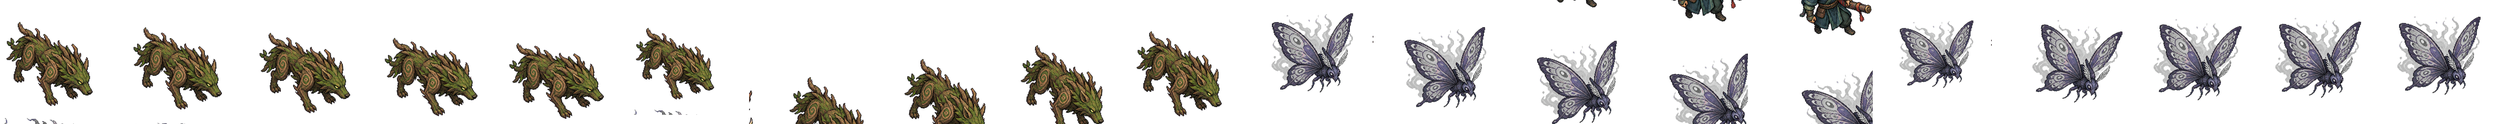
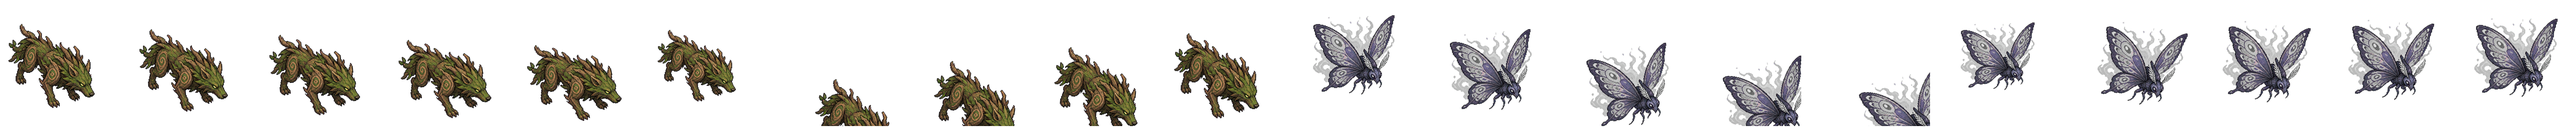
fix: prevent common actor frame bleed

Changed region(s): [[0.3125, 0.0, 1.0, 1.0], [0.0, 0.2188, 0.2812, 0.9375], [0.0, 0.9688, 0.0312, 1.0]]

diff --git a/src/game/phaser/commonActorAtlas.test.ts b/src/game/phaser/commonActorAtlas.test.ts
@@ -1,0 +1,197 @@
+/// <reference types="node" />
+
+import { readFileSync } from 'node:fs'
+import { fileURLToPath } from 'node:url'
+import { inflateSync } from 'node:zlib'
+import { describe, expect, it } from 'vitest'
+
+const FRAME_SIZE = 264
+const GUTTER_SIZE = 4
+const SECONDARY_COMPONENT_AREA_LIMIT = 96
+
+interface DecodedPng {
+  readonly width: number
+  readonly height: number
+  readonly alpha: Uint8Array
+}
+
+function readUInt32BE(input: Uint8Array, offset: number): number {
+  return (
+    ((input[offset] ?? 0) << 24)
+    | ((input[offset + 1] ?? 0) << 16)
+    | ((input[offset + 2] ?? 0) << 8)
+    | (input[offset + 3] ?? 0)
+  ) >>> 0
+}
+
+function readAscii(input: Uint8Array, start: number, end: number): string {
+  return String.fromCharCode(...input.subarray(start, end))
+}
+
+function concatBytes(chunks: readonly Uint8Array[]): Uint8Array {
+  const result = new Uint8Array(chunks.reduce((total, chunk) => total + chunk.length, 0))
+  let offset = 0
+  for (const chunk of chunks) {
+    result.set(chunk, offset)
+    offset += chunk.length
+  }
+  return result
+}
+
+function decodePngAlpha(filePath: string): DecodedPng {
+  const input = new Uint8Array(readFileSync(filePath))
+  const idatChunks: Uint8Array[] = []
+  let width = 0
+  let height = 0
+  let bitDepth = 0
+  let colorType = 0
+  let offset = 8
+
+  while (offset < input.length) {
+    const length = readUInt32BE(input, offset)
+    const type = readAscii(input, offset + 4, offset + 8)
+    const body = input.subarray(offset + 8, offset + 8 + length)
+    offset += length + 12
+
+    if (type === 'IHDR') {
+      width = readUInt32BE(body, 0)
+      height = readUInt32BE(body, 4)
+      bitDepth = body[8] ?? 0
+      colorType = body[9] ?? 0
+    } else if (type === 'IDAT') {
+      idatChunks.push(body)
+    }
+  }
+
+  if (bitDepth !== 8 || colorType !== 6) {
+    throw new Error(`只支持 8 位 RGBA PNG：${filePath}`)
+  }
+
+  const inflated = new Uint8Array(inflateSync(concatBytes(idatChunks)))
+
+  const bytesPerPixel = 4
+  const rowBytes = width * bytesPerPixel
+  const pixels = new Uint8Array(width * height * bytesPerPixel)
+  const alpha = new Uint8Array(width * height)
+  let sourceOffset = 0
+
+  for (let y = 0; y < height; y += 1) {
+    const filter = inflated[sourceOffset++]
+    const row = y * rowBytes
+    for (let x = 0; x < rowBytes; x += 1) {
+      const current = inflated[sourceOffset++] ?? 0
+      const left = x >= bytesPerPixel ? pixels[row + x - bytesPerPixel] ?? 0 : 0
+      const above = y > 0 ? pixels[row - rowBytes + x] ?? 0 : 0
+      const upperLeft = y > 0 && x >= bytesPerPixel
+        ? pixels[row - rowBytes + x - bytesPerPixel] ?? 0
+        : 0
+      let value = current
+      if (filter === 1) {
+        value = (current + left) & 0xff
+      } else if (filter === 2) {
+        value = (current + above) & 0xff
+      } else if (filter === 3) {
+        value = (current + Math.floor((left + above) / 2)) & 0xff
+      } else if (filter === 4) {
+        const estimate = left + above - upperLeft
+        const pa = Math.abs(estimate - left)
+        const pb = Math.abs(estimate - above)
+        const pc = Math.abs(estimate - upperLeft)
+        const predictor = pa <= pb && pa <= pc ? left : pb <= pc ? above : upperLeft
+        value = (current + predictor) & 0xff
+      } else if (filter !== 0) {
+        throw new Error(`不支持的 PNG filter：${filter}`)
+      }
+      pixels[row + x] = value
+      if (x % bytesPerPixel === bytesPerPixel - 1) {
+        alpha[y * width + Math.floor(x / bytesPerPixel)] = value
+      }
+    }
+  }
+
+  return { width, height, alpha }
+}
+
+function connectedComponentAreas(decoded: DecodedPng, frame: number): number[] {
+  const visited = new Uint8Array(FRAME_SIZE * FRAME_SIZE)
+  const areas: number[] = []
+  const isOpaque = (x: number, y: number) => decoded.alpha[y * decoded.width + frame * FRAME_SIZE + x] > 0
+
+  for (let y = 0; y < FRAME_SIZE; y += 1) {
+    for (let x = 0; x < FRAME_SIZE; x += 1) {
+      const point = y * FRAME_SIZE + x
+      if (visited[point] || !isOpaque(x, y)) {
+        continue
+      }
+
+      visited[point] = 1
+      const queue = [point]
+      let area = 0
+      for (let cursor = 0; cursor < queue.length; cursor += 1) {
+        const current = queue[cursor]!
+        const currentX = current % FRAME_SIZE
+        const currentY = Math.floor(current / FRAME_SIZE)
+        area += 1
+        for (let offsetY = -1; offsetY <= 1; offsetY += 1) {
+          for (let offsetX = -1; offsetX <= 1; offsetX += 1) {
+            if (offsetX === 0 && offsetY === 0) {
+              continue
+            }
+            const nextX = currentX + offsetX
+            const nextY = currentY + offsetY
+            if (nextX < 0 || nextX >= FRAME_SIZE || nextY < 0 || nextY >= FRAME_SIZE) {
+              continue
+            }
+            const next = nextY * FRAME_SIZE + nextX
+            if (!visited[next] && isOpaque(nextX, nextY)) {
+              visited[next] = 1
+              queue.push(next)
+            }
+          }
+        }
+      }
+      areas.push(area)
+    }
+  }
+
+  return areas.sort((left, right) => right - left)
+}
+
+function countGutterPixels(decoded: DecodedPng, frame: number): number {
+  let count = 0
+  for (let y = 0; y < FRAME_SIZE; y += 1) {
+    for (let x = 0; x < FRAME_SIZE; x += 1) {
+      const inGutter = x < GUTTER_SIZE
+        || x >= FRAME_SIZE - GUTTER_SIZE
+        || y < GUTTER_SIZE
+        || y >= FRAME_SIZE - GUTTER_SIZE
+      if (inGutter && decoded.alpha[y * decoded.width + frame * FRAME_SIZE + x] > 0) {
+        count += 1
+      }
+    }
+  }
+  return count
+}
+
+describe('common actor sprite atlases', () => {
+  it('keeps each frame free of a second actor image', () => {
+    const atlasPaths = [
+      fileURLToPath(new URL('../../assets/game/qingshi-common-actors-left.png', import.meta.url)),
+      fileURLToPath(new URL('../../assets/game/qingshi-common-actors-right.png', import.meta.url)),
+    ]
+
+    for (const atlasPath of atlasPaths) {
+      const decoded = decodePngAlpha(atlasPath)
+      expect(decoded.width % FRAME_SIZE).toBe(0)
+      expect(decoded.height).toBe(FRAME_SIZE)
+
+      for (let frame = 0; frame < decoded.width / FRAME_SIZE; frame += 1) {
+        expect(countGutterPixels(decoded, frame), `${atlasPath} frame ${frame} has no transparent gutter`).toBe(0)
+        const secondaryAreas = connectedComponentAreas(decoded, frame)
+          .slice(1)
+          .filter((area) => area >= SECONDARY_COMPONENT_AREA_LIMIT)
+        expect(secondaryAreas, `${atlasPath} frame ${frame} contains adjacent art`).toEqual([])
+      }
+    }
+  })
+})

diff --git a/src/game/phaser/createBattleSession.ts b/src/game/phaser/createBattleSession.ts
@@ -133,6 +133,7 @@ const SPELL_COOLDOWN_MS = 10_000
 const SPELL_SHIELD_DURATION_MS = 1_500
 const RESULT_FREEZE_MS = 600
 const COMMON_ACTOR_ATLAS_FRAME_COUNT = 20
+const COMMON_ACTOR_ATLAS_FRAME_SIZE = 264
 
 function resolveCommonActorAtlas(frame: number) {
   const normalizedFrame = Math.max(0, Math.floor(frame))
@@ -379,9 +380,16 @@ export class QingShiRidgeScene extends Phaser.Scene {
   preload() {
     this.load.image('qingshi-ground', groundTextureUrl)
     this.load.spritesheet('qingshi-actors', actorAtlasUrl, { frameWidth: 512, frameHeight: 512 })
-    // Keep each WebGL texture below the common 8192px maximum texture width.
-    this.load.spritesheet('qingshi-common-actors-left', commonActorAtlasLeftUrl, { frameWidth: 256, frameHeight: 256 })
-    this.load.spritesheet('qingshi-common-actors-right', commonActorAtlasRightUrl, { frameWidth: 256, frameHeight: 256 })
+    // Common actor cells have a transparent four-pixel gutter so WebGL filtering
+    // cannot sample a neighboring monster when the sprite is scaled.
+    this.load.spritesheet('qingshi-common-actors-left', commonActorAtlasLeftUrl, {
+      frameWidth: COMMON_ACTOR_ATLAS_FRAME_SIZE,
+      frameHeight: COMMON_ACTOR_ATLAS_FRAME_SIZE,
+    })
+    this.load.spritesheet('qingshi-common-actors-right', commonActorAtlasRightUrl, {
+      frameWidth: COMMON_ACTOR_ATLAS_FRAME_SIZE,
+      frameHeight: COMMON_ACTOR_ATLAS_FRAME_SIZE,
+    })
     this.load.spritesheet('qingshi-combat-actors', combatActorAtlasUrl, { frameWidth: 256, frameHeight: 768 })
     this.load.spritesheet('artifact-combat-effects', artifactCombatEffectsAtlasUrl, { frameWidth: 128, frameHeight: 128 })
   }
